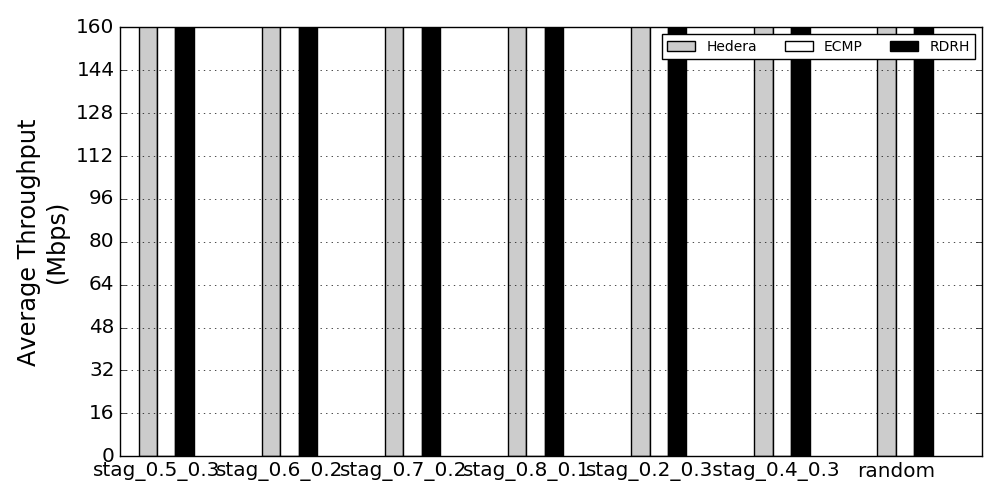
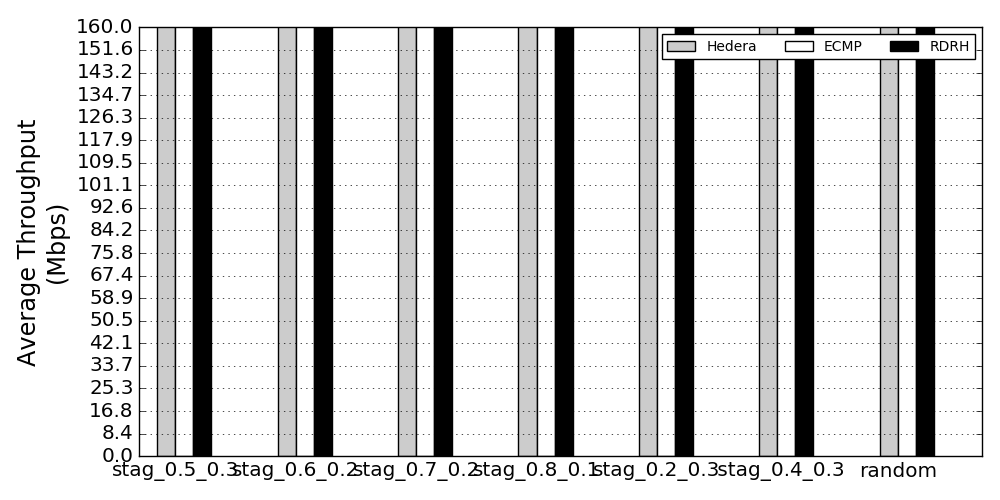
Experimeto k=4 p/ 100Mbps

Changed region(s): [[0.062, 0.03, 0.961, 0.96]]

diff --git a/plot_results.py b/plot_results.py
@@ -405,7 +405,7 @@ def plot_results():
 	plt.xticks(index + num_bar / 3.0 * bar_width, traffics_brief, fontsize='large')
 	plt.ylabel(u'Average Throughput\n(Mbps)', fontsize='x-large')
 	plt.ylim(0, full_bisection_bw)
-	plt.yticks(np.linspace(0, full_bisection_bw, 11), fontsize='large')
+	plt.yticks(np.linspace(0, full_bisection_bw, 20), fontsize='large')
 	plt.legend(loc='upper right', ncol=len(apps), fontsize='small')
 	plt.grid(axis='y')
 	plt.tight_layout()
